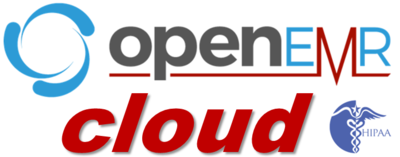
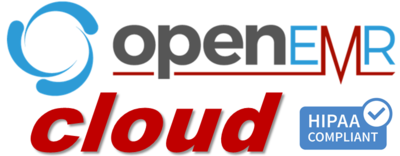
update about & HIPAA graphic

diff --git a/content/page/about.md b/content/page/about.md
@@ -3,7 +3,7 @@
 
 <center><h1>About OpenEMR Blog</h1></center>
 
-Welcome to OpenEMR Blog. This blog contains information on OpenEMR products and events, including OpenEMR open-source product announcements, community events, and community news.
+Welcome to OpenEMR Blog. This blog contains information on award-winning OpenEMR products and events, including OpenEMR open-source product announcements, community events, and community news.
 
 To stay connected, you may subscribe to the RSS feed of our blog posts, or follow us on Twitter (@openemr). You are welcome to watch our software development and contribute to our project on Github (@openemr). For more information about OpenEMR, please visit our home page at https://www.open-emr.org.
 
